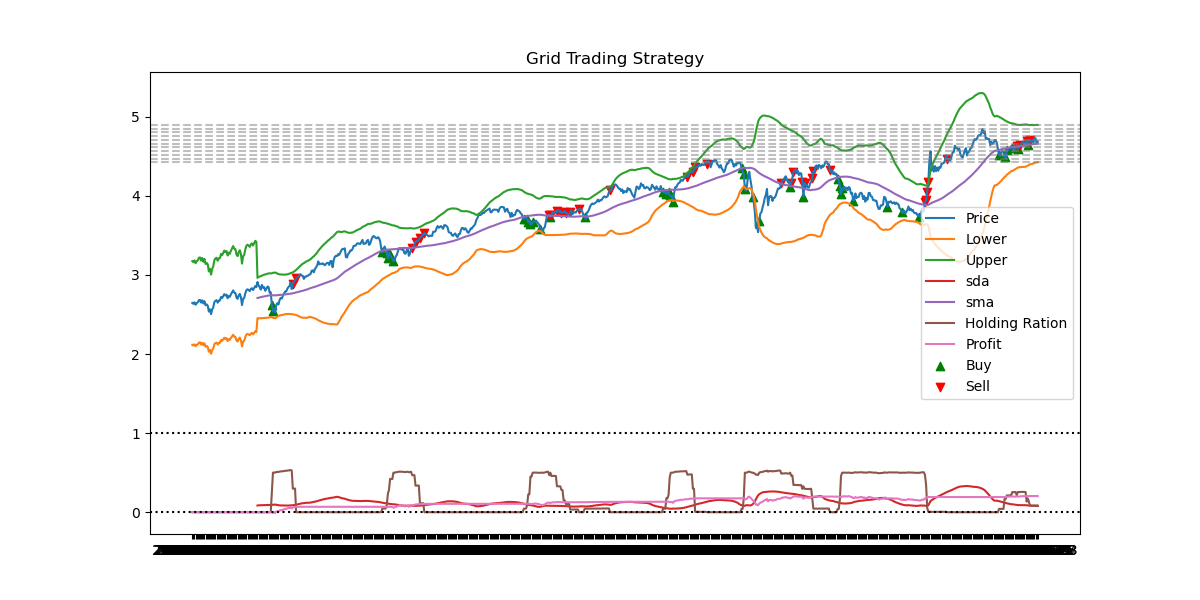
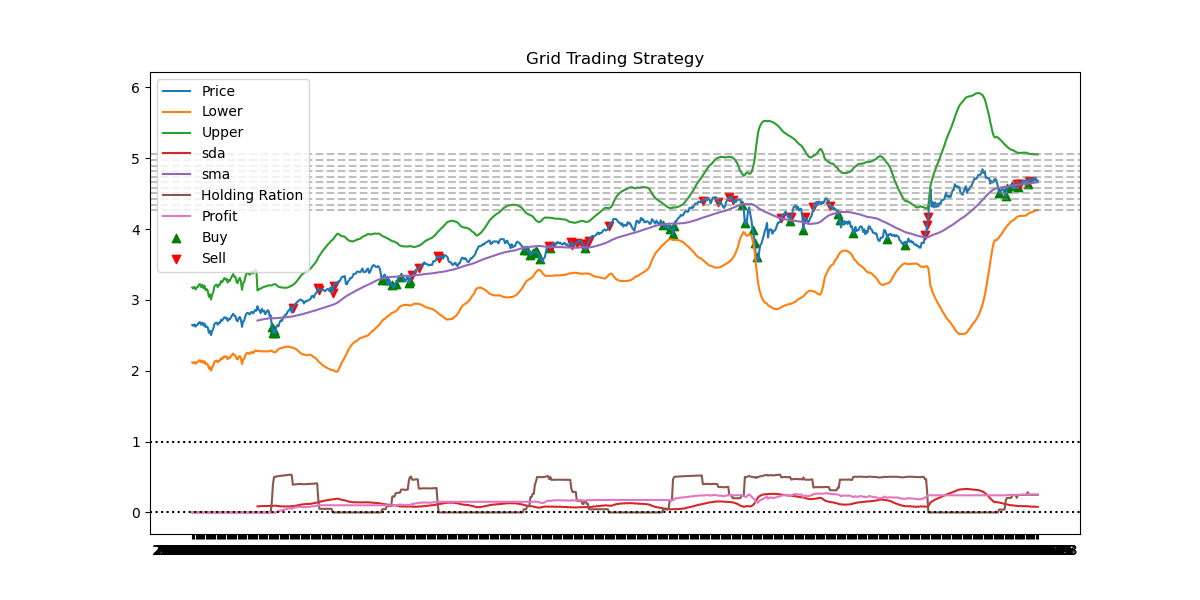
tt

diff --git a/ayaa/strategy/grid_strategy.py b/ayaa/strategy/grid_strategy.py
@@ -134,7 +134,7 @@ class GridTradingStrategy:
     def backtest(self, symbol, data):
         self.symbol = symbol
         self.data = data
-        self.ub = calculate_bollinger_bands(data, window=60, num_std=3, price_col='close', fill_na=True)
+        self.ub = calculate_bollinger_bands(data, window=60, num_std=5, price_col='close', fill_na=True)
         for idx, row in data.iterrows():
             self.reset_grid_level(self.ub.iloc[idx]['lower_band'], self.ub.iloc[idx]['upper_band']) 
             self.execute_strategy(row['date'], row['close'])
